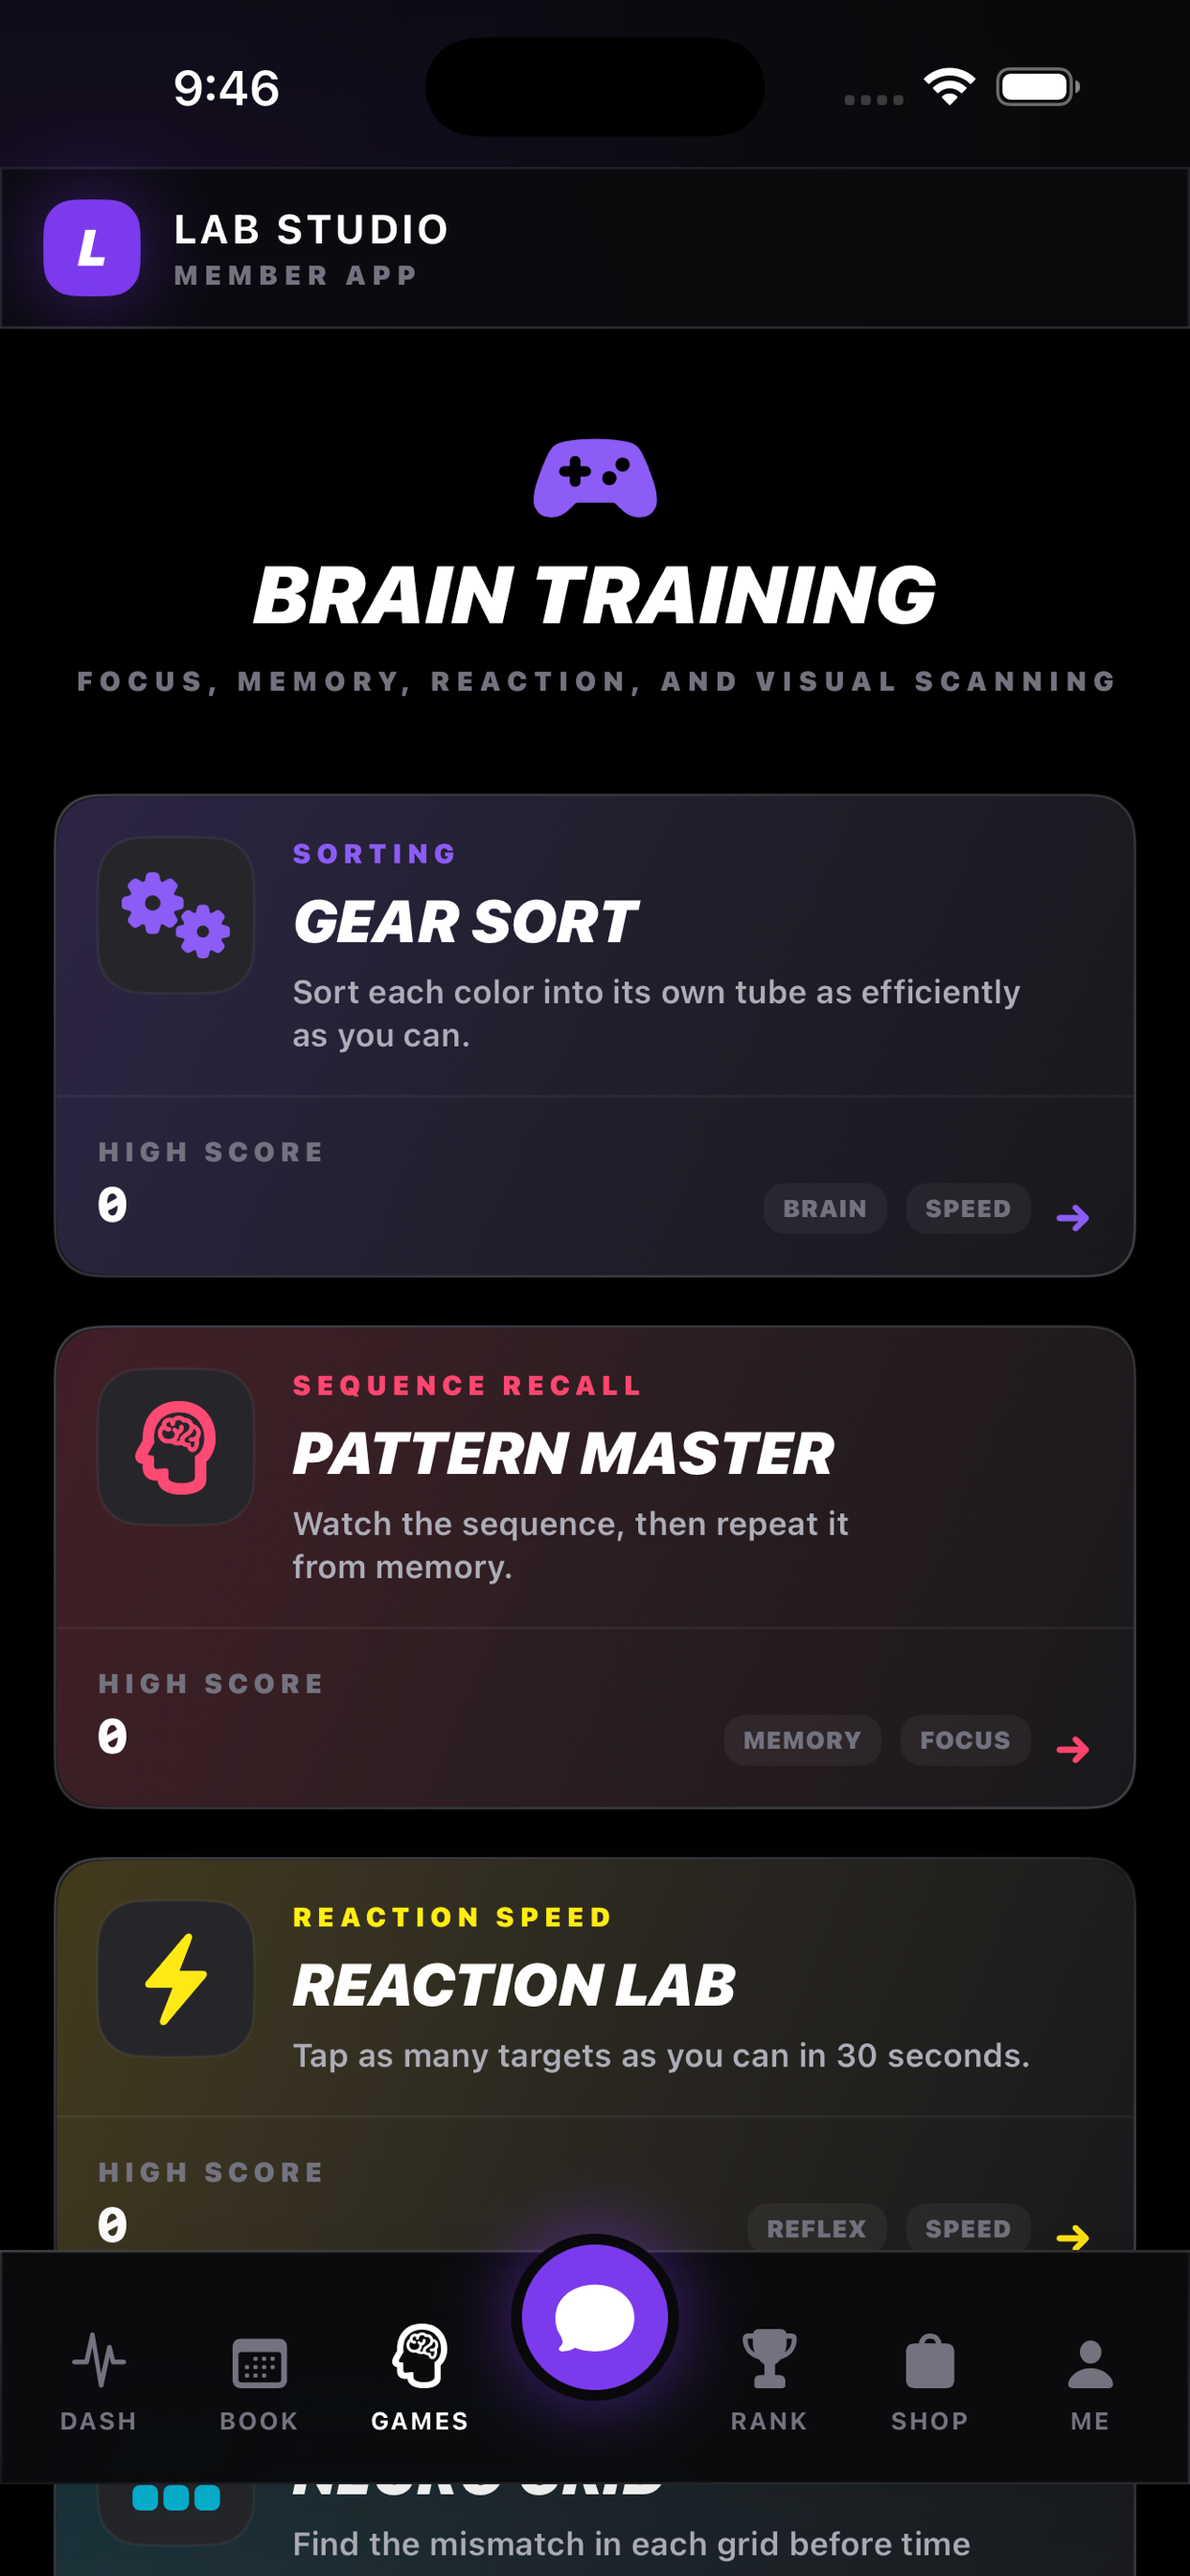
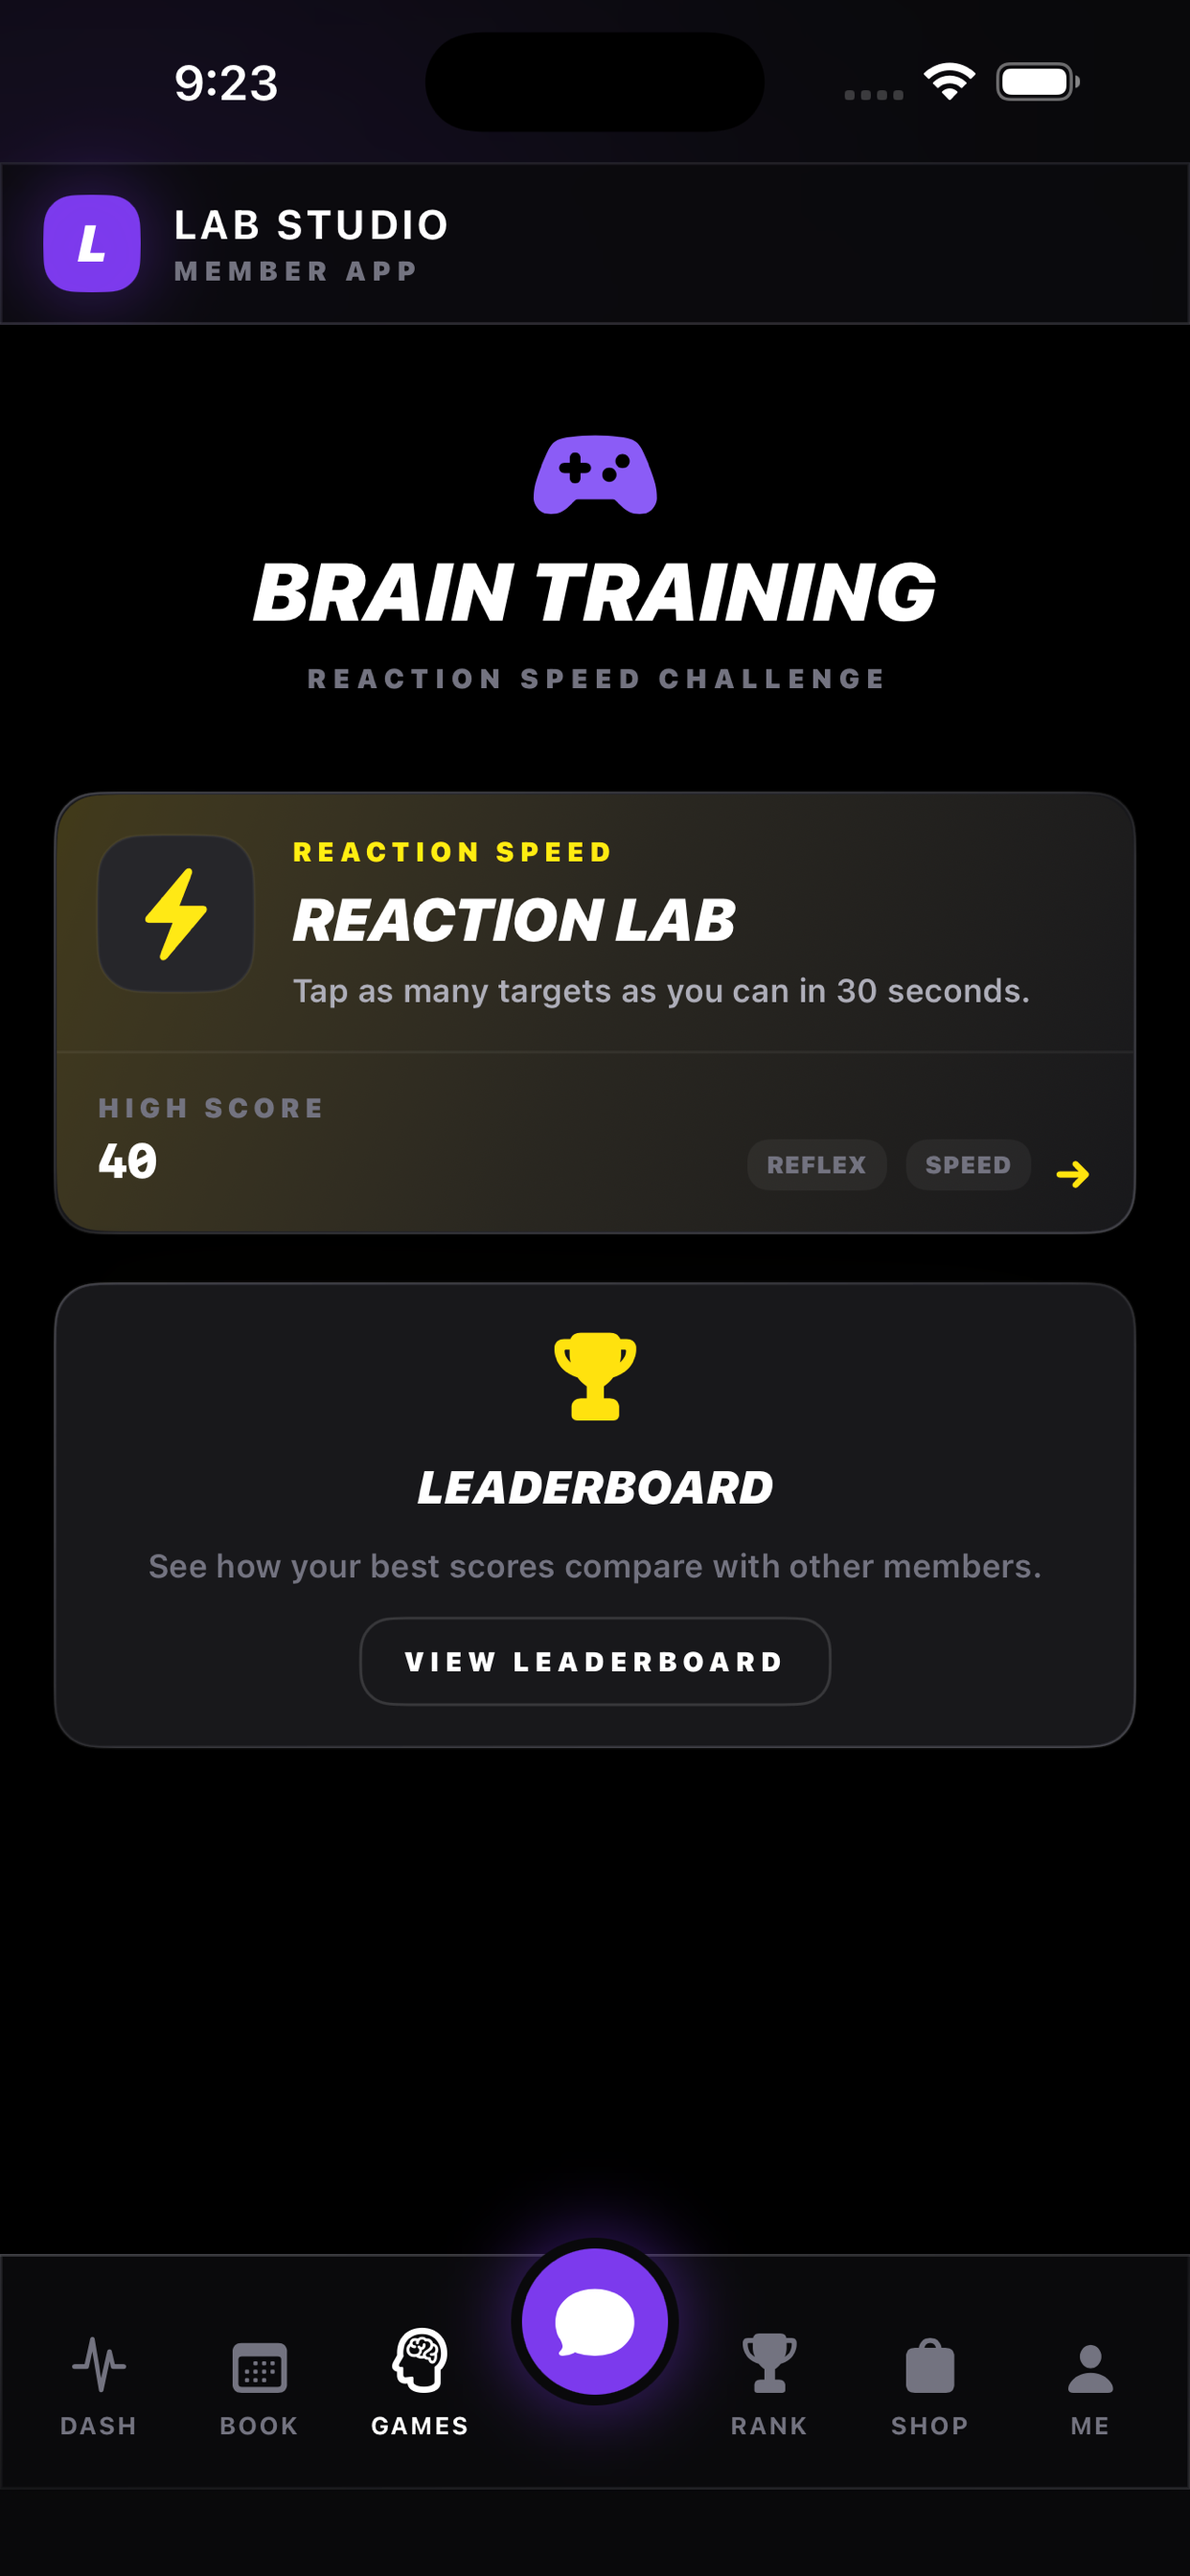
Prepare LabStudio App Store resubmission build

diff --git a/ios/LabStudioFit/LabStudioFit/Views/RootShellView.swift b/ios/LabStudioFit/LabStudioFit/Views/RootShellView.swift
@@ -157,14 +157,21 @@ private struct LoginView: View {
     @State private var phone = ""
 
     var body: some View {
-        ScrollView(showsIndicators: false) {
-            VStack(spacing: 18) {
-                Spacer(minLength: 40)
-                hero
-                form
-                catalogPreview
+        GeometryReader { proxy in
+            ScrollView(.vertical, showsIndicators: false) {
+                VStack(spacing: 18) {
+                    hero
+                    form
+                    catalogPreview
+                }
+                .padding(20)
+                .padding(.top, 24)
+                .padding(.bottom, 44)
+                .frame(maxWidth: .infinity)
+                .frame(minHeight: proxy.size.height, alignment: .top)
+                .contentShape(Rectangle())
             }
-            .padding(20)
+            .frame(width: proxy.size.width, height: proxy.size.height)
         }
     }
 
@@ -275,11 +282,16 @@ private struct PremiumTabBar: View {
             .padding(.bottom, 10)
         }
         .background {
-            if #available(iOS 26.0, *) {
-                LabTheme.chrome.opacity(0.90)
-                    .glassEffect(.regular.tint(.black.opacity(0.20)), in: .rect)
-            } else {
-                LabTheme.chrome.opacity(0.94)
+            ZStack {
+                LabTheme.chrome
+                    .ignoresSafeArea(.container, edges: .bottom)
+
+                if #available(iOS 26.0, *) {
+                    LabTheme.chrome.opacity(0.90)
+                        .glassEffect(.regular.tint(.black.opacity(0.20)), in: .rect)
+                } else {
+                    LabTheme.chrome.opacity(0.94)
+                }
             }
         }
     }

diff --git a/labstudio-app/src/app/api/toby/chat/route.ts b/labstudio-app/src/app/api/toby/chat/route.ts
@@ -159,6 +159,8 @@ async function chatCompletion(
 }
 
 export async function POST(req: Request) {
+  let fallbackText = '';
+
   try {
     const { message, history } = (await req.json().catch(() => ({}))) as {
       message?: string;
@@ -167,6 +169,7 @@ export async function POST(req: Request) {
 
     const text = String(message || '').trim();
     if (!text) return NextResponse.json({ error: 'Missing message' }, { status: 400 });
+    fallbackText = text;
 
     const jar = await cookies();
     const uid = jar.get('labstudio_uid')?.value;
@@ -345,6 +348,12 @@ export async function POST(req: Request) {
     return NextResponse.json({ reply: messageContentToText(firstMsg.content) || '(no response)' });
   } catch (err: unknown) {
     console.error('Toby AI Error:', err);
+    if (fallbackText) {
+      return NextResponse.json({
+        reply: fallbackCoachReply(fallbackText),
+        provider: 'fallback',
+      });
+    }
     return NextResponse.json(
       { error: err instanceof Error ? err.message : 'Server error' },
       { status: 500 },

diff --git a/ios/LabStudioFit/LabStudioFit/Views/HomeView.swift b/ios/LabStudioFit/LabStudioFit/Views/HomeView.swift
@@ -98,7 +98,7 @@ struct HomeView: View {
                     .frame(maxWidth: .infinity, alignment: .leading)
                 }
             } else {
-                EmptyLabState(title: "No upcoming session", detail: "Book from the Train tab and it will appear here immediately.", icon: "calendar.badge.plus")
+                EmptyLabState(title: "No upcoming session", detail: "Book from the Book tab and it will appear here immediately.", icon: "calendar.badge.plus")
             }
         }
     }

diff --git a/labstudio-app/capacitor.config.ts b/labstudio-app/capacitor.config.ts
@@ -8,7 +8,7 @@ const config: CapacitorConfig = {
   server: {
     url: 'https://app.labstudio.fit',
     cleartext: false,
-    allowNavigation: ['app.labstudio.fit', '*.vercel.app'],
+    allowNavigation: ['app.labstudio.fit'],
   },
 };
 

diff --git a/app-store/releases/labstudio/app-store-metadata.md b/app-store/releases/labstudio/app-store-metadata.md
@@ -7,11 +7,11 @@
 - Bundle ID: fit.labstudio.app
 - SKU: fit.labstudio.app
 - Version: 1.0
-- Build: 2026060201
+- Build: 2026061001
 - Primary category: Health & Fitness
 - Secondary category: Lifestyle
 - App Store Connect Apple ID: 6763787815
-- App Store Connect state: Waiting for Review
+- App Store Connect state: Historical June 4 receipt showed Waiting for Review on build 2026060401; fresh June 10 ASC state was not verified
 - App Store age rating: 12+
 - Marketing URL: https://labstudio.fit
 - Support URL: https://app.labstudio.fit/support
@@ -36,11 +36,11 @@ fitness, training, gym, coach, nutrition, workout
 
 ## What's New
 
-Games cleanup for the native SwiftUI release: Reaction Lab is now the only active Lab game, with broken duplicate game modes removed from the app and leaderboard scoring.
+Games cleanup for the native SwiftUI release: Reaction Lab is now the only active Lab game, with broken duplicate game modes removed from the app and leaderboard scoring. This build also fixes the bottom navigation chrome on iPhone review devices.
 
 ## Review Notes
 
-Login uses email or phone only; no password or email verification is required. Use reviewer+labstudio@labstudio.fit, complete onboarding if prompted, and review the native Dash, Book, Games, Coach, Rank, Shop, and Me tabs. Games now exposes Reaction Lab only; Rank compares Reaction Lab scores.
+Login uses email or phone only; no password or email verification is required. Use reviewer+labstudio@labstudio.fit, complete onboarding if prompted, and review the native Dash, Book, Games, Coach, Rank, Shop, and Me tabs. Games now exposes Reaction Lab only; Rank compares Reaction Lab scores. The iPhone bottom navigation chrome has been verified without a gap below the tab bar.
 
 ## Submission Snapshot
 
@@ -61,26 +61,34 @@ Login uses email or phone only; no password or email verification is required. U
 - Public group: Studio Crew
 - Public link: https://testflight.apple.com/join/rtpbMJhP
 - Public link limit: None
-- Build: 2026060201
-- Build ID: Processing in App Store Connect
-- Internal build state: Processing after upload
-- External build state: Not submitted for external Beta App Review for build 2026060201
+- Build: 2026061001
+- Build ID: Not uploaded yet
+- Internal build state: Local release candidate pending archive/upload approval
+- External build state: Not submitted for external Beta App Review for build 2026061001
 - Public link build: 2026042401 remains the previously approved external TestFlight build
 
 ## Internal Launch Notes
 
-- App Store Connect version state: Waiting for Review
-- Attached build ID or build number: 2026060201 uploaded; App Store version still needs to be switched after processing completes
+- App Store Connect version state: Historical June 4 receipt showed Waiting for Review
+- Candidate build number: 2026061001
+- Last uploaded build ID or build number: b7a642f4-56e7-4db7-9bff-c70a5c1c7e94 / 2026060401
 - Native screenshot sources:
   - app-store/releases/labstudio/screenshots/native/asc/iphone-6-5-home.png
   - app-store/releases/labstudio/screenshots/native/asc/iphone-6-5-games.png
   - app-store/releases/labstudio/screenshots/native/asc/iphone-6-5-rank.png
+  - app-store/releases/labstudio/screenshots/native/iphone-17-pro-max-home.png
+  - app-store/releases/labstudio/screenshots/native/iphone-17-pro-max-games.png
+  - app-store/releases/labstudio/screenshots/native/iphone-17-pro-max-rank.png
   - app-store/releases/labstudio/screenshots/native/ipad-pro-13-login.png
 - Review submission ID: b56d98ff-c5be-4b8d-bd4e-4acb94a9eb1b
-- Latest native upload: 2026-06-02T18:42:16Z for build 2026060201
-- Review submitted at: 2026-06-01T02:12:00Z for prior build 2026053101
+- Latest native upload: 2026-06-04T13:39:38Z for build 2026060401
+- Review submitted at: 2026-06-04T13:51:32.771Z for build 2026060401
+- Last direct ASC verification receipt: output/app-store-connect/labstudio-hydrated-resubmit-2026060401.json on 2026-06-04
+- Fresh ASC verification gap: 2026-06-10 recheck failed because the asc CLI was unauthenticated and Chrome redirected to login
+- Candidate delta: 2026061001 includes the 2026-06-10 login scroll hardening in RootShellView.swift; archive, upload, build selection, screenshot edits, and submit-for-review still require EB28 approvals
+- Local verification: iPhone 17 Pro Max iOS 26.5 build/install/launch and scroll verification passed; iPad Pro 13-inch iOS 26.5 build/install/launch screenshot passed; live app.labstudio.fit public/API smoke passed
 - App Privacy state: Published on April 25, 2026
 - Manual release after approval: Yes
-- Post-approval checks to run:
+- Reviewer-flow checks to keep current:
   - Confirm https://app.labstudio.fit is serving Namecheap, not Vercel
-  - Confirm login, booking, market checkout handoff, Toby, profile save, progress photo upload, account deletion, and member dashboard from the live native iOS app
+  - Confirm login, booking, shop checkout handoff, Toby, profile save, progress photo upload, account deletion, and member dashboard from the live native iOS app

diff --git a/app-store/releases/labstudio/review-notes.md b/app-store/releases/labstudio/review-notes.md
@@ -6,14 +6,14 @@ Use this file as the exact reviewer-facing source for the build being submitted.
 
 - App: Lab Studio
 - Version: 1.0
-- Build: 2026060201
+- Build: 2026061001
 - Bundle ID: fit.labstudio.app
 
 ## Summary for App Review
 
 Lab Studio is a native SwiftUI members-only fitness app for Lab Studio Fit. Members sign in with email or phone, complete a profile, track workouts, nutrition, progress photos, and training stats, book in-person sessions, play Reaction Lab, review leaderboards, review facility shop/cafe items, and use Toby coaching support.
 
-Build 2026060201 is a games cleanup release. It keeps the restored Lab Studio visual system and removes the broken duplicate game modes so Reaction Lab is the only active game in Games and Rank.
+Build 2026061001 is the reviewer-flow cleanup release. It keeps the restored Lab Studio visual system, removes the broken duplicate game modes so Reaction Lab is the only active game in Games and Rank, fixes the native bottom navigation chrome so no gap appears below the tab bar on iPhone review devices, and hardens the login screen scroll layout for compact iPhone review devices.
 
 ## Login
 
@@ -42,8 +42,8 @@ Build 2026060201 is a games cleanup release. It keeps the restored Lab Studio vi
 - Ads present: No
 - In-app purchases present: No Apple IAP
 - Subscription present: No App Store subscription
-- How to reach the paywall or purchase screen:
-  - Open Market.
+- How to reach the purchase screen:
+  - Open Shop.
   - Add shop or cafe items to the cart. Any checkout is for in-person gym services, facility memberships, or physical products from Lab Studio.
 - Restore path:
   - Not applicable; there are no Apple in-app purchases or App Store subscriptions in this build.
@@ -52,13 +52,18 @@ Build 2026060201 is a games cleanup release. It keeps the restored Lab Studio vi
 
 - Verified devices:
   - iPhone 17 Pro simulator on iOS 26.2
+  - iPhone 17 Pro Max simulator on iOS 26.2
   - iPhone 16 Pro simulator on iOS 18.2
   - iPad Pro 13-inch simulator on iOS 26.2
-  - Signed Release archive succeeded for build 2026060201 using team WN3K69XEP4 and bundle ID fit.labstudio.app
+  - iPhone 17 Pro Max simulator on iOS 26.5
+  - iPad Pro 13-inch simulator on iOS 26.5
+  - Native Swift package tests passed for build 2026061001
+  - Local Debug simulator build, install, launch, and login scroll verification passed for build 2026061001 on iPhone 17 Pro Max iOS 26.5
+  - Local Debug simulator build, install, launch, and screenshot passed for build 2026061001 on iPad Pro 13-inch iOS 26.5
 - App Store Connect state:
-  - Build 2026060201 uploaded to App Store Connect on June 2, 2026 at 2:42 PM EDT and is processing.
-  - The previous build 2026053101 was submitted to App Review and verified as Waiting for Review on May 31, 2026 at 10:12 PM EDT.
-  - Native Dash, Games, and Rank screenshots are attached in the iPhone 6.5-inch slot.
-  - The selected build contains the final Lab Studio Fit app icon.
+  - These notes are for candidate build 2026061001. Historical build 2026060401 was uploaded to App Store Connect on June 4, 2026 at 9:39 AM EDT and resubmitted to App Review on June 4, 2026 at 9:51 AM EDT.
+  - Previous builds 2026053101, 2026060201, and 2026060401 are superseded; they predate the final login scroll hardening included in build 2026061001.
+  - Native Dash, Games, and Rank screenshots are attached in the iPhone 6.5-inch and 6.7-inch slots; the iPad slot has the current native login/catalog screenshot.
+  - Candidate build 2026061001 uses the final Lab Studio Fit app icon in the native asset catalog.
 - Anything Apple should not misinterpret:
   - Stripe checkout, when enabled, is for in-person fitness services, facility membership, and physical goods. The app does not sell digital content or digital subscriptions.
